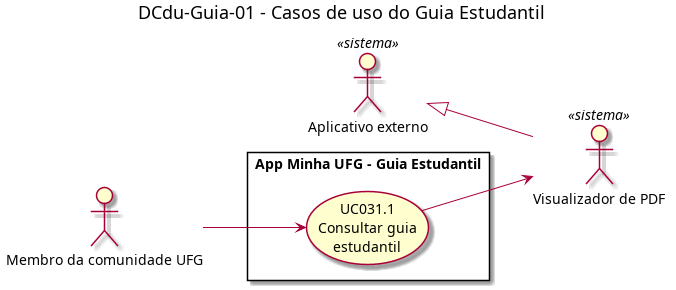
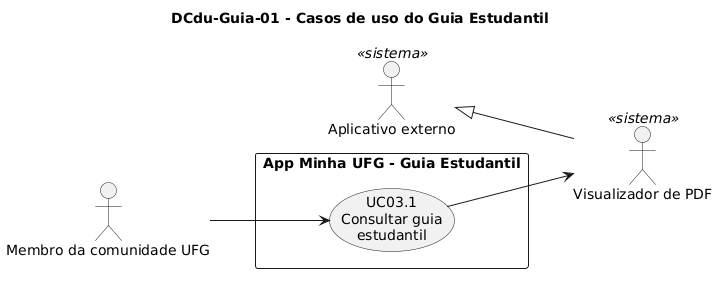
REV-PR13: correção do bloqueante B1 e preenchimento do revisor
- B1: rótulos dos casos de uso corrigidos para UC01.1, UC01.2
  (DCdu-Seguranca-01) e UC03.1 (DCdu-Guia-01); PNGs regerados.
- Observação: revisor preenchido em DCdu-Seguranca-01, DCdu-Locais-01
  e DCla-Locais-02.

diff --git a/Locais/DCla-Locais-02.md b/Locais/DCla-Locais-02.md
@@ -5,7 +5,7 @@
 | **Código** | `DCla-Locais-02` |
 | **Título** | Classes de domínio e fonte de dados de Locais |
 | **Autor(a)** | Maicon Brendo da Silva |
-| **Revisor(a)** | Revisor(a) a definir |
+| **Revisor(a)** | Maicon Brendo da Silva |
 | **Status** | Em produção |
 | **Rastreia para** | `DPac-Geral-01`, `DCmp-Locais-01`, `DD-Locais-01`, `DCla-Locais-01`, `DCla-Comum-02`, `DCla-Comum-03`, `DSeq-Locais-01`, `DD-Eventos-01` |
 

diff --git a/Locais/DCdu-Locais-01.md b/Locais/DCdu-Locais-01.md
@@ -5,7 +5,7 @@
 | **Código** | `DCdu-Locais-01` |
 | **Título** | Casos de uso de Locais |
 | **Autor(a)** | Maicon Brendo da Silva |
-| **Revisor(a)** | Revisor(a) a definir |
+| **Revisor(a)** | Maicon Brendo da Silva |
 | **Status** | Em produção |
 | **Rastreia para** | `DCdu-Geral-01`, `DPac-Geral-01`, `DAtv-Locais-01`, `DAtv-Locais-02`, `DAtv-Locais-03`, `DIhc-Locais-01`, `DIhc-Locais-02`, `DCla-Comum-02`, `DCla-Comum-04` |
 

diff --git a/Seguranca/DCdu-Seguranca-01.md b/Seguranca/DCdu-Seguranca-01.md
@@ -5,7 +5,7 @@
 | **Código** | `DCdu-Seguranca-01` |
 | **Título** | Casos de uso de Segurança |
 | **Autor(a)** | Maicon Brendo da Silva |
-| **Revisor(a)** | Revisor(a) a definir |
+| **Revisor(a)** | Maicon Brendo da Silva |
 | **Status** | Em produção |
 | **Rastreia para** | `DCdu-Geral-01`, `DPac-Geral-01`, `DAtv-Seguranca-01`, `DIhc-Seguranca-01`, `DCla-Comum-01` |
 
